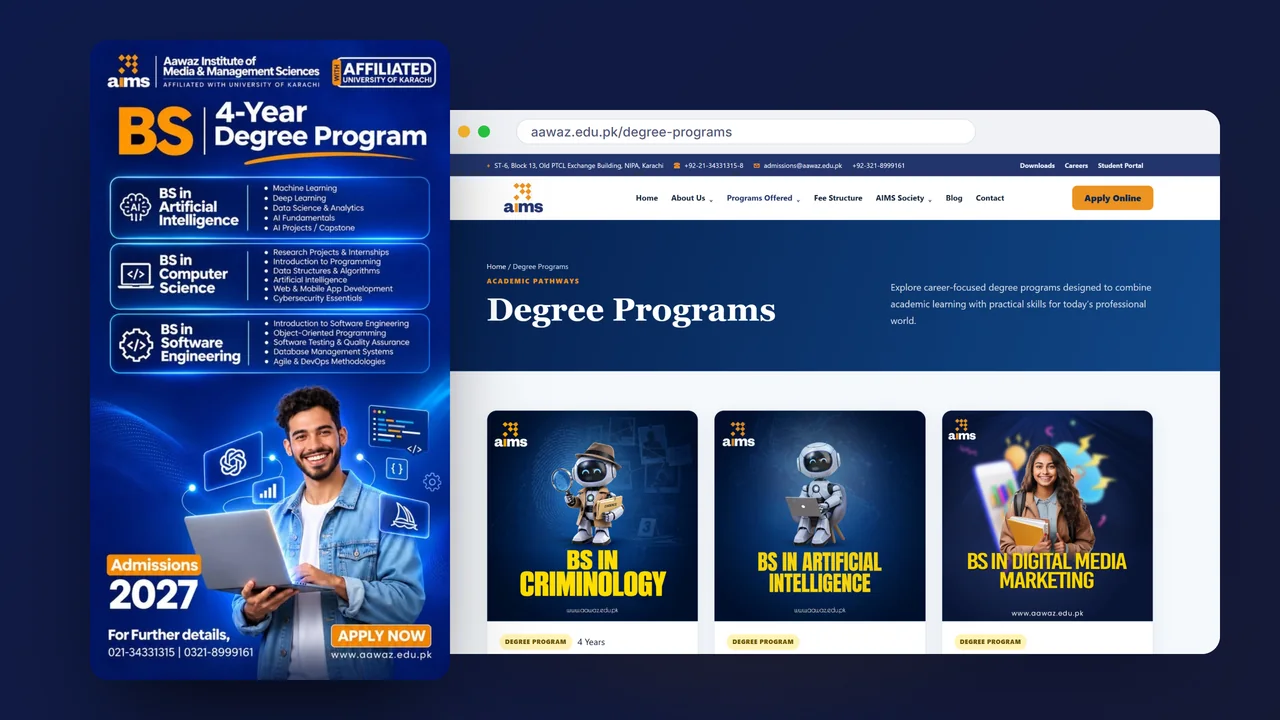
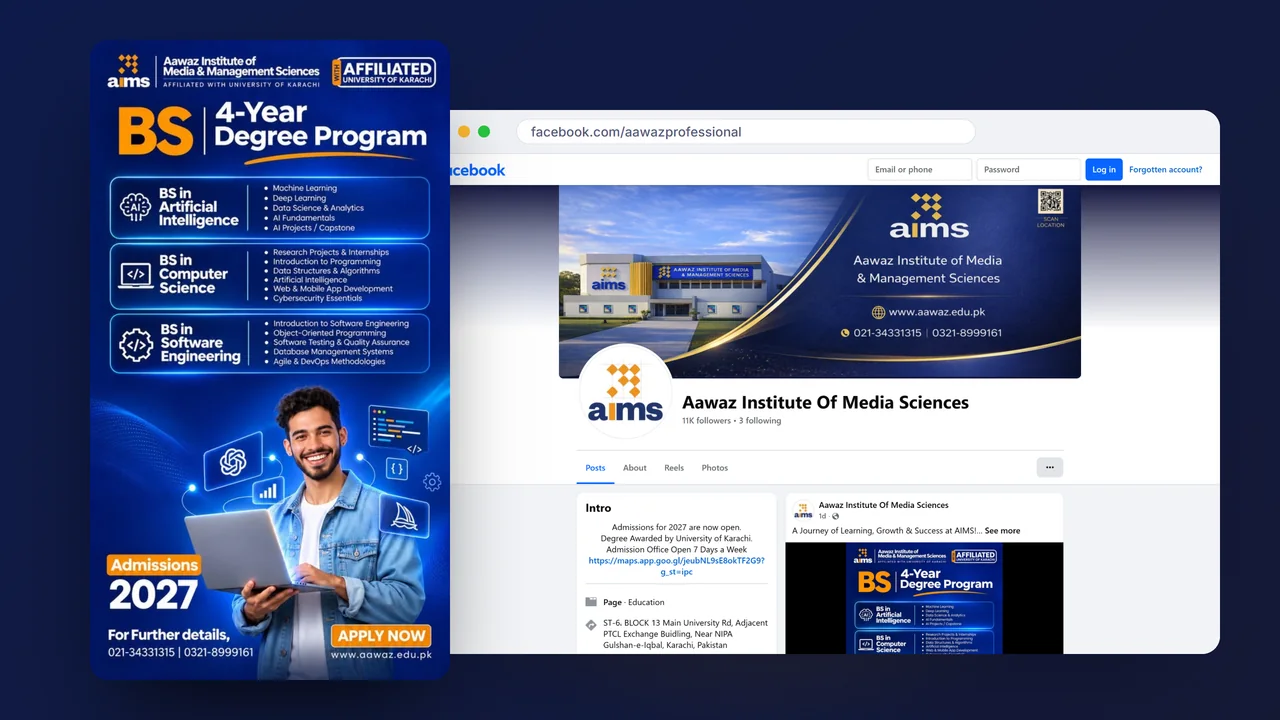
Aawaz Institute: social media only
We handle its socials, not its website: the website panel and every
website claim are off the page, the panels show its real Facebook
posts, and it is tagged Marketing and Branding.

diff --git a/docs/README.md b/docs/README.md
@@ -400,6 +400,7 @@ Newest first. Every new fact, decision, or change to the project is recorded her
 
 | Date | Update | Source |
 |---|---|---|
+| 20 Nov 2026 | **Aawaz Institute: social media only** (project head: we handle its socials, not its website). Every website claim is off the page: the website panel is gone (now "Three Parts of the Work": Facebook & Instagram, program creatives, admissions ads), the hero, excerpt, card points, "Our work" fact, and the how-we-work step no longer mention the website, and the case study is tagged Marketing and Branding (Development removed). The panels show only its real social material: its Facebook page with its real Qawali Night event post, and its real Admissions 2027 post beside its Facebook page. The program creatives are still taken from its website (we design them) | Project head |
 | 20 Nov 2026 | **Merged the `service-estimators-team-slider` branch** (project head; 8 commits by n0bud-y from 4 Nov that had never reached `main`, see the 4 Nov entries below): the service-page cost estimators send their answers from the page with a thank-you popup, arrows and mouse drag on the About team slider, the footer phone number, "Not sure yet" locking the other services on the Contact form, gradient-on-hover service pills, faster home service tabs, and the shared button for "View Portfolio". The social links combine both sides (project head): Facebook, LinkedIn, Instagram **@ink_pixel_studios**, TikTok **@ink.pixel.studios**, YouTube, and the Google profile. Checked locally without sending anything: 19 team cards with working arrows, 6 social icons and the phone in the footer, "Not sure yet" locks the 6 other chips, the estimator reaches an enabled "Get my estimate" after 5 steps; typecheck, lint, and the production build pass | Project head |
 | 20 Nov 2026 | **Aawaz Institute rewritten as a client story, with real images; NG gets Before & After** (project head: use real images and screenshots). **Aawaz** (now titled Aawaz Institute of Media & Management Sciences, AIMS): who the institute is (Gulshan-e-Iqbal, Karachi; degrees awarded by the University of Karachi; its programs and short courses, from its own Facebook page and aawaz.edu.pk) → the problem → story panels (the website aawaz.edu.pk, program and course creatives, Facebook & Instagram, admissions ads: all four confirmed by the project head) → "A Creative for Every Program" (eight of its real creatives) → how we work → a plain CTA. Images: its Facebook cover (the campus), screenshots of the website and Facebook page, its real creatives, and its Admissions 2027 creative. Its Instagram asked for a login, and the TikTok handle linked from its Facebook page (@aims.institute.pk) does not exist, so neither is shown. **NG**: a "Before & After" gallery of two bedrooms from its own Facebook posts. The old marketing layout (stand-in graphics) is no longer used by any case study; the posters stay as card and hero | Project head |
 | 20 Nov 2026 | **NG Interiors & Constructions rewritten as a client story** (project head; Aawaz is next). Like Pak Armoring and G&W Towers: who the studio is (Naila Gulistan's interior design and construction studio, Khayaban-e-Mujahid, Karachi; facts from its own Facebook, Instagram @nginteriorsandconstructions, and TikTok @nginteriorsconstructions) → the problem → story panels "Four Parts of the Work" (Facebook & Instagram, reels and project videos, ads and lead generation, brand and post design: all four confirmed by the project head) → four of its own site videos ("From the Site") → how we work → a plain CTA. The developer-designed stand-in graphics (posts, brand cards, funnel) are off the page; the poster stays as card and hero. No follower counts or results; the logo is not claimed as ours; the page's email is blurred in the screenshots. Tagged Marketing and Branding | Project head |

diff --git a/docs/execution-plan.md b/docs/execution-plan.md
@@ -349,6 +349,7 @@ Newest first.
 
 | Date | Update |
 |---|---|
+| 20 Nov 2026 | Aawaz social-only: seed block edited (no `panel-website` asset or panel; texts; `services: ["marketing", "branding"]`), `panel-website.webp` removed, `panel-social` and `panel-ads` re-rendered from the Facebook capture and the real event and admissions posts and replaced on the same assets. The old `aawaz-img-panel-website` asset stays in Contentful, unused. Checked locally: no website claim in the page text, 0 console errors, three panels lock and step through |
 | 20 Nov 2026 | Merge of `origin/service-estimators-team-slider` (base `3bebcd1`, 8 commits, 4 Nov) into `main`. Conflicts: `src/lib/site.ts` `socialProfiles` (resolved to both sides' profiles, Instagram as on the branch, per the project head), and the two docs logs (both sides' entries kept, the branch's 4 Nov rows in date order). The other 17 files merged cleanly. Checks: `tsc`, `eslint src` (5 old warnings in untouched files), `next build` (84 pages), and a headless interaction test that never submits |
 | 20 Nov 2026 | Aawaz: removed from the marketing loop (now empty: `marketingCaseStudies` [], `designedPostAlts` {}, `pagePlans` {}; the campaign-board showcase is gone) into its own block with new ids (`aawaz-who`, `-challenge`, `-help`, `-creatives`, `-process`; `aawaz-cta` reused), all with `force`; `client-aawaz-institute` renamed and its website set to aawaz.edu.pk. Real images downloaded from the pages (a scratch script lists every image a page loads after scrolling): the website's program creatives (1080 px), the Facebook cover and Admissions 2027 creative; creatives saved at 720 px with rounded corners. NG: `ng-before-after` gallery (four Facebook post photos, 472×590, rounded corners) after the story panels. Checked locally: both pages 0 console or hydration errors, Aawaz panels lock and step through all four at 1440×900, no horizontal overflow at 390, layout shift 0.001 |
 | 20 Nov 2026 | NG Interiors: removed from the marketing loop (`marketingCaseStudies`, `designedPostAlts`, `pagePlans`) into its own seed block with new entry ids (`ng-who`, `ng-challenge`, `ng-help`, `ng-work`, `ng-process`; `ng-cta` reused), all with `force`; the old loop entries stay in Contentful, unlinked. Images: social-profile captures with a new scratch script (removes login popups and dark backdrops, blurs @gmail.com addresses), HTML mockups, the Facebook cover and an Instagram post cropped from the captures, and four TikTok video covers (405×720, rounded corners baked in; one replaced because it was letterboxed). Checked locally: 0 console or hydration errors, panels lock and step through all four at 1440×900, no horizontal overflow at 390, layout shift 0 |
